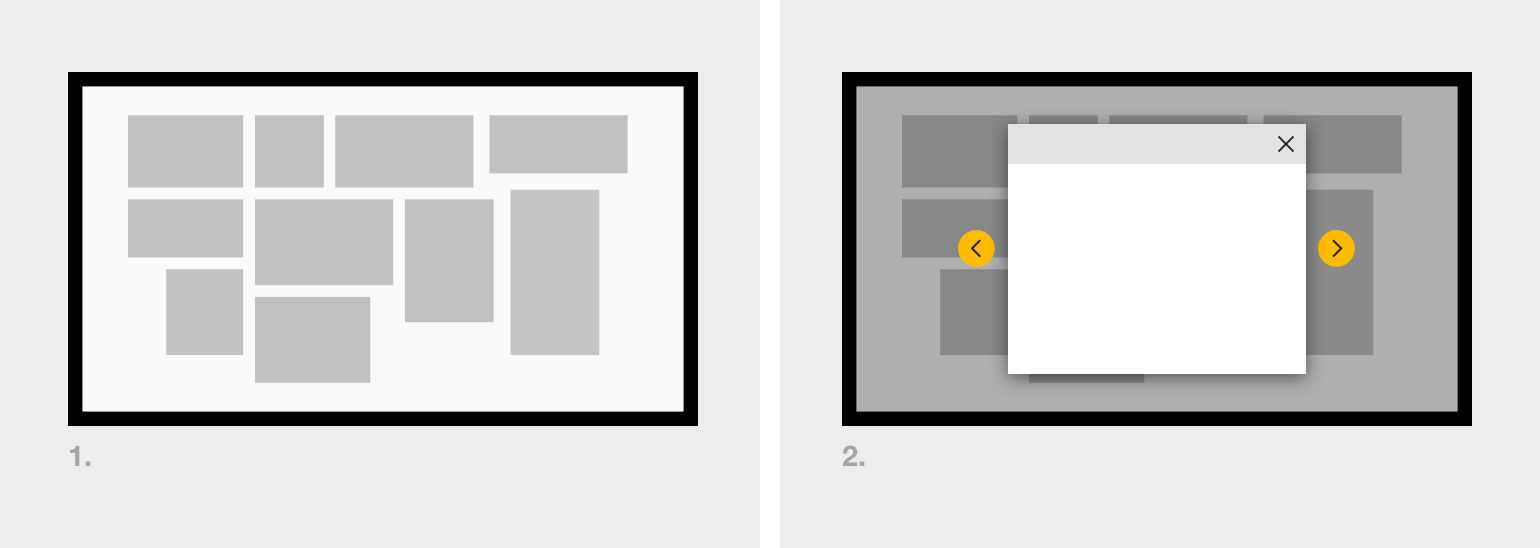
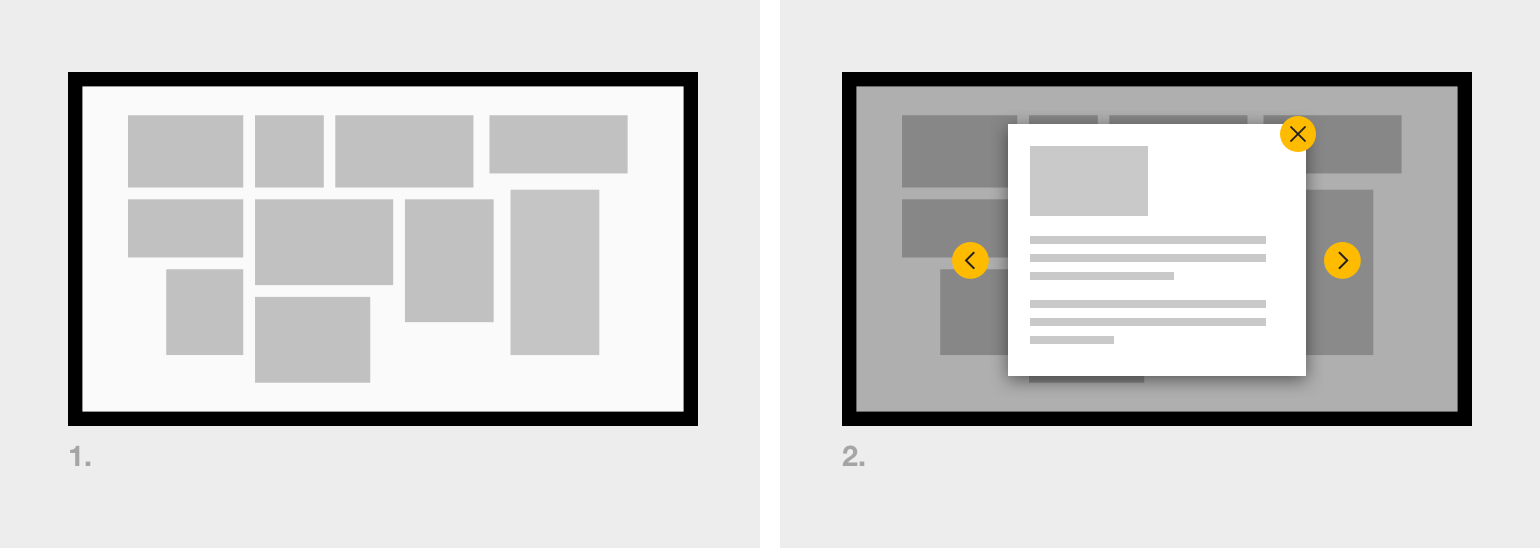
added some images and minor text updates

Changed region(s): [[0.5922, 0.2172, 0.9039, 0.6515], [0.6545, 0.6825, 0.8416, 0.7135]]

diff --git a/_pages/patterns/digital-labels/index.md b/_pages/patterns/digital-labels/index.md
@@ -3,9 +3,6 @@ title: "Digital labels"
 excerpt: "Patterns for digital labels."
 ---
 
-EDITS: Images and additions required
-{: .notice--danger}
-
 ## Wireframe overview
 
 ![Digital labels wireframe](/images/digital-label-wireframe.png)
@@ -15,25 +12,28 @@ Wireframe showing basic interaction for a digital label: menu screen and detail 
 
 ### Menu screen
 
-* [Natural mapping](/_pages/principles/layout/) if possible
-* If there is a large number of items to select from, consider splitting them into separate menu pages that can be navigated using Previous and Next buttons. Aim to split the items into groups that relate in some way to their physical display (eg, separate cases of objects).
+The menu screen forms a key component of the digital label. Content items are presented to the user enabling them to make their selection.
+
+* __Photography:__ Using a photograph of the objects in place is one possible solution to a menu screen as it very clearly links the physical to digital. Be careful to ensure the objects appear interactive (use of buttons) and that the purpose of touching the objects is clear: _Is it obvious what content lives beneath?_
+* __Layout:__ Adopt [natural mapping](/_pages/principles/layout/) principles for the graphical layout, if possible.
+* __Choice overload:__ If there is a large number of items to select from, consider splitting them into separate menu pages that can be navigated using Previous and Next buttons. Aim to split the items into groups that relate in some way to their physical display (eg, a single menu page for a single display case).
 
 ### Detail screen
 
-Actions available:
+The detail screen displays the label content. It might contain:
 
-* Title
-* Image
-* Body content (text, images, video)
-* Lateral navigation (next and previous articles)
+* __Title__ of the object
+* __Image__ of the object. Confirm that this story is attached to the physical object. This could be achieved by using an image of the _actual object_ paired with the title _before_ introducing any of the other supporting text of imagery (see #3 of the 'uniform title' image below).
 
 ## Uniform title
 
-Ensure the same title for an object is used in all of the places it is referred to. For example:
+Use the same title for an object in all of the places it is referred to. For example:
 
 * The __physical object label__ positioned by an object
 * The title of the digital content on the __menu selection__ screen
 * The title of __the article__ itself
 
-[Insert image demonstrating this]
-{: .notice--warning}
+![Digital labels title](/images/digital-label-title.png)
+
+The title of the object is consistent from physical object to the digital interface.
+{: .figcaption}

diff --git a/_pages/principles/screensaver/index.md b/_pages/principles/screensaver/index.md
@@ -16,5 +16,5 @@ From a user perspective, a screensaver should accomplish three things for an int
     * _Type:_ Is this a video? Is this an article? Surprising users with the type of content, like a wall of text, will inevitably turn users off. Make it obvious before they even touch (see more about [Video](/_pages/patterns/video/))
     * _Duration:_ Being forthcoming with a duration can help visitors accurately gauge whether or not this content is something they are interested in.
 
-If the screen houses more than a single piece of content, consider using the menu screen as a quasi-screensaver instead. __Doing this showcases the content on offer and reduces the number of interactions required.__ (There can be ways to mitigate damage to the screen, for example, less contrast on static elements, temporarily fading out the screen to black, etc. Talk to your trusty AV Tech during development :)
+If the screen houses more than a single piece of content, consider using the menu screen as a quasi-screensaver instead. __Doing this showcases the content on offer and reduces the number of interactions required.__ There can be ways to mitigate damage to the screen, for example, less contrast on static elements, temporarily fading out the screen to black, etc. Talk to your trusty AV Tech during development :)
 {: .notice--info}

diff --git a/_pages/principles/layout/index.md b/_pages/principles/layout/index.md
@@ -24,8 +24,29 @@ One of the four menu screens from the _Anzac Print Gallery_ interactive, demonst
 
 ## Navigation
 
-Add wireframe and basic usage of icons: Next / Previous / Back / Home / Close to create structured way to navigate screens
-{: .notice--info}
+### Next and Previous
+
+![Use of Next and Previous icons](/images/navigation-next-prev.png)
+
+Correct usage of Next and Previous icons showing relationship between equal pieces of content.
+{: .figcaption}
+
+### Back
+
+![Use of Back icon](/images/navigation-back.png)
+
+Correct usage of Back icon showing movement ‘up’ a layer of navigation.
+{: .figcaption}
+
+Don’t use the Home icon for movement between a single layer of navigation. Instead, use it when it will take a user up multiple layers ‘all the way home’.
+{: .notice--warning}
+
+### Close
+
+![Use of Back icon](/images/navigation-close.png)
+
+Correct usage of Close icon showing the dismissal of a modal window appearing as a layer above the current screen.
+{: .figcaption}
 
 ## Accessibility
 
